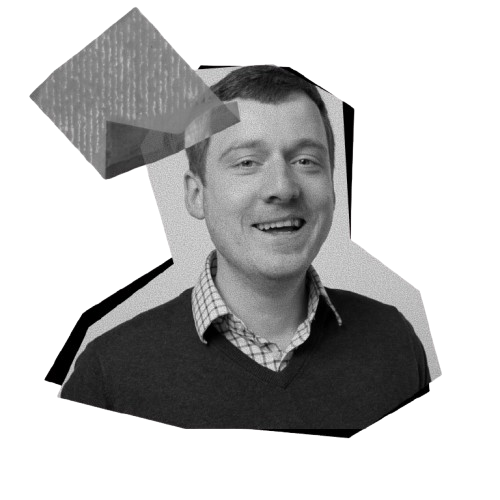
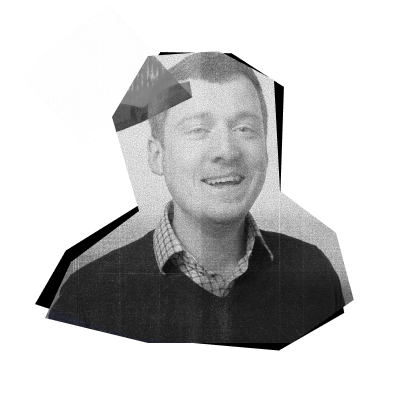
+google chrome sponsor & fix Hidde's photo

diff --git a/index.html b/index.html
@@ -345,6 +345,14 @@
 
         <ul>
           <li class="sponsor-category">
+            <p class="sponsor-category-label">Headline sponsor</p>
+            <div>
+              <a href="https://developer.chrome.com/?ref=ffconf2026">
+                <img class="sponsor-logo" src="images/sponsors/google.svg" alt="Google Chrome"></a>
+            </div>
+          </li>
+
+          <li class="sponsor-category">
             <p class="sponsor-category-label">Captioning sponsor</p>
             <div>
               <a href="https://tetralogical.com/?ref=ffconf2026"><img class="sponsor-logo"
